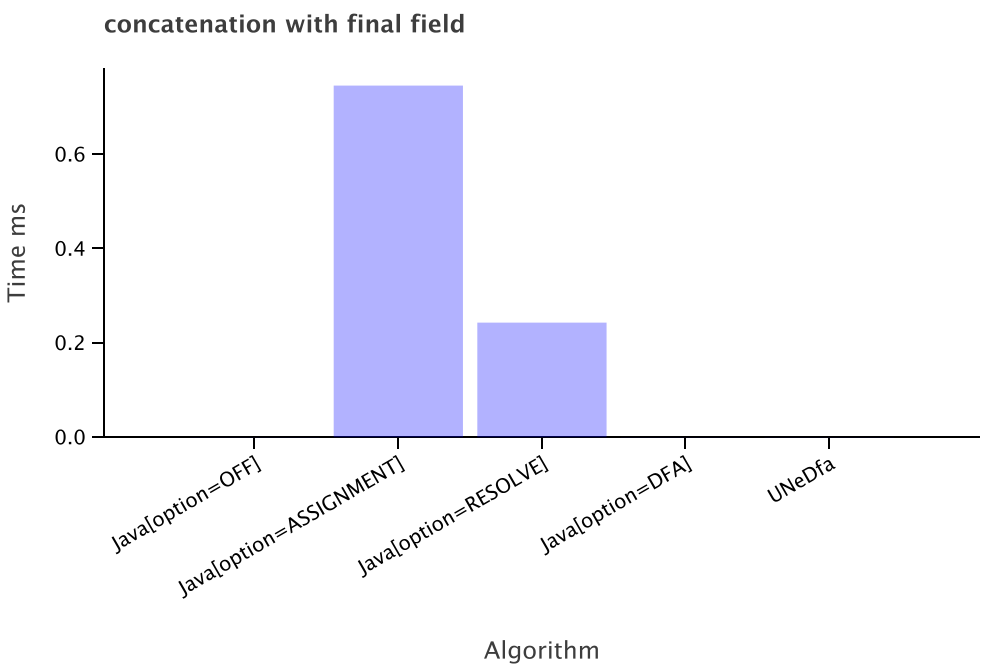
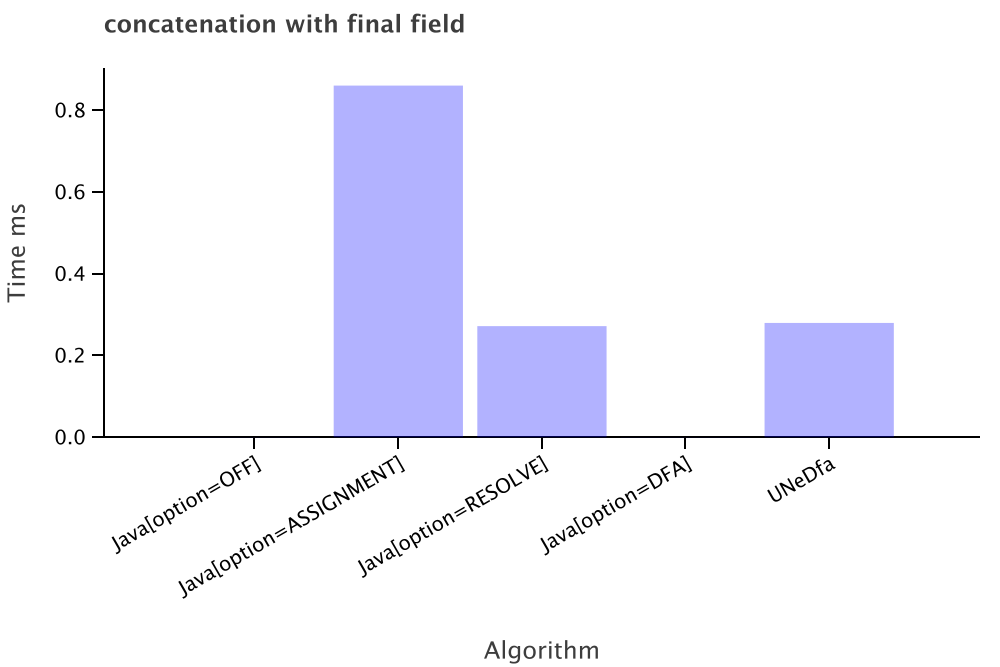
update IDE and rerun not working test

diff --git a/comparisionWithPlatform/src/test/kotlin/JavaConcatenationTest.kt b/comparisionWithPlatform/src/test/kotlin/JavaConcatenationTest.kt
@@ -10,6 +10,7 @@ import org.intellij.plugins.intelliLang.Configuration
 import org.intellij.plugins.intelliLang.util.SubstitutedExpressionEvaluationHelper
 import org.jetbrains.uast.UExpression
 import org.jetbrains.uast.UReturnExpression
+import org.jetbrains.uast.analysis.UNeDfaConfiguration
 import org.jetbrains.uast.analysis.UStringEvaluator
 import org.jetbrains.uast.getUastParentOfType
 import kotlin.system.measureTimeMillis
@@ -174,7 +175,11 @@ class JavaConcatenationTest : LightJavaCodeInsightFixtureTestCase() {
             "Java[option=ASSIGNMENT]" to { evaluateWith(Configuration.DfaOption.ASSIGNMENTS) },
             "Java[option=RESOLVE]" to { evaluateWith(Configuration.DfaOption.RESOLVE) },
             "Java[option=DFA]" to { evaluateWith(Configuration.DfaOption.DFA) },
-            "UNeDfa" to { UStringEvaluator().calculateValue(expression)?.valueIfKnown }
+            "UNeDfa" to {
+                UStringEvaluator()
+                    .calculateValue(expression, UNeDfaConfiguration(calculateNonStaticPrivateFields = true))
+                    ?.valueIfKnown
+            }
         )
 
         evaluators.values.forEach { it() }
